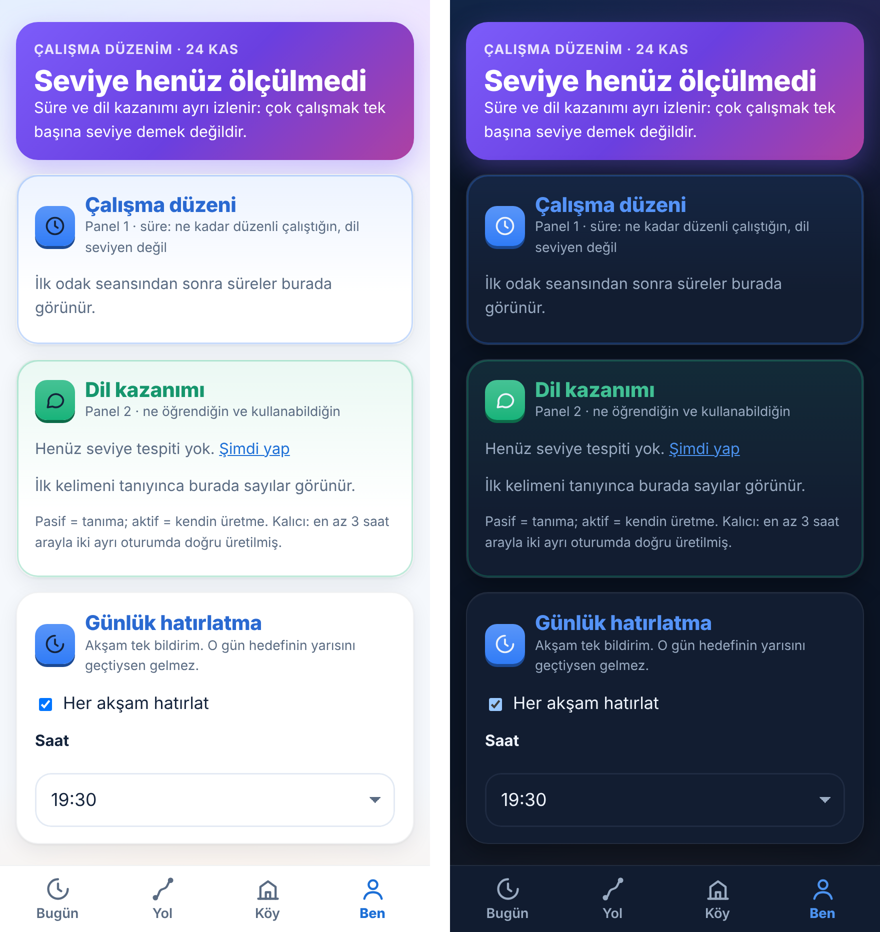
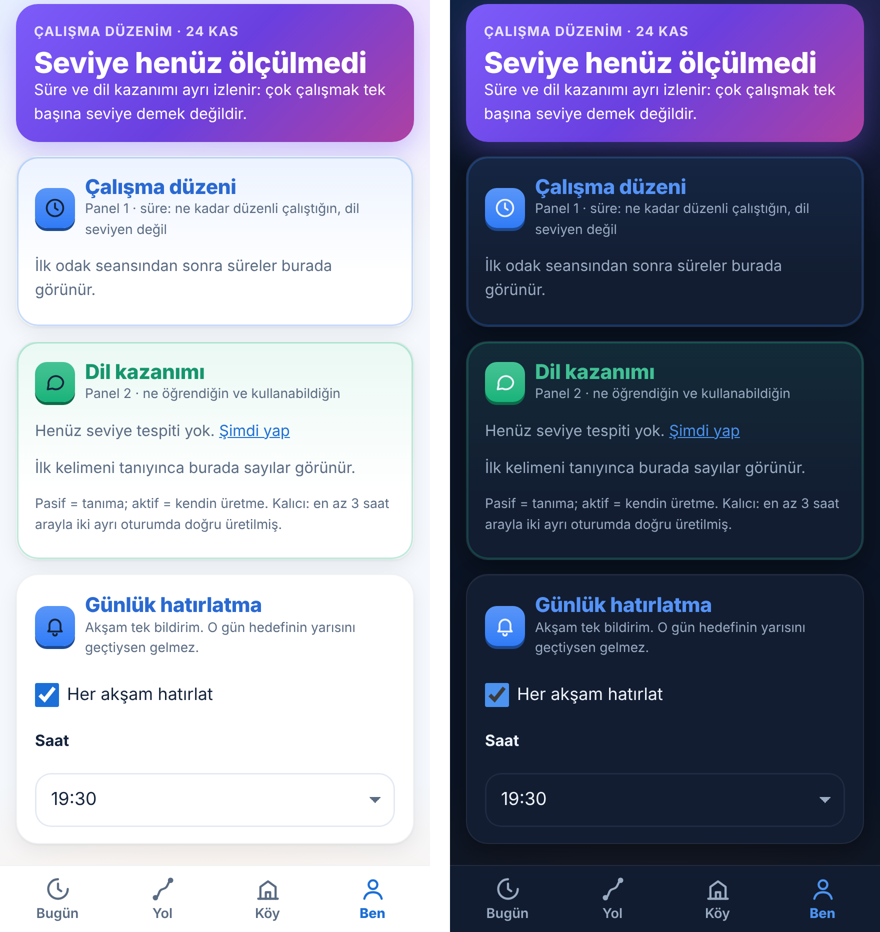
fix(#263, inceleme 7120058318): v1 ayarı taşınır, 44 pt satır, izin satırı
- P1-1: v2'de kayıt yoksa v1'in remind ayarı bir kez okunur ("off" → kapalı, listedeki saat → o saat)
- P1-2: "Her akşam hatırlat" satırı ≥ 44 pt, kutu 24 px; e2e ölçer
- P2-1: plan önce hesaplanır, silme ile kurma art arda
- P2-2: izin kapalıysa kartta tek satır; P2-4 metinler; P2-6 ölü koşul; P2-7 zil simgesi

Claude-Session: https://claude.ai/code/session_016gishHgJbA5Aumtxk7z73f

diff --git a/web/src/services/hatirlatma.ts b/web/src/services/hatirlatma.ts
@@ -20,7 +20,7 @@ const GUN = 7;
 export const HATIRLATMA_METIN: readonly (readonly [string, string])[] = [
   ["Bugünkü adımın hazır", "Birkaç dakika yeter: aç, kaldığın yerden devam et."],
   ["Guten Abend!", "Bugün kısa bir tur: dinle, sonra bir cümle söyle."],
-  ["10 dakika yeter", "En zor kısım başlamak. Bir halka aç, gerisi gelir."],
+  ["Kısa bir tur yeter", "En zor kısım başlamak. Bugünkü ilk adımı aç, gerisi gelir."],
   ["Bugün bir şey söyle", "Almanca konuştukça donma azalır. Bugün birkaç cümle kur."],
   ["Yarın kolaylaşsın", "Bugün kısa bir tekrar, yarın daha az unutmak demek."],
 ];
@@ -53,9 +53,30 @@ const eklenti = (): LN | undefined => (globalThis as any).Capacitor?.Plugins?.Lo
 /** kabukta bildirim eklentisi var mı (yoksa ayar satırı da gösterilmez) */
 export const hatirlatmaVar = () => !!eklenti();
 
+/** v1'in ayarı (aynı kökte `localStorage["dw-werkstatt-v2"].state.remind`: "off" ya da "HH:MM"); yoksa ya da okunamazsa null */
+export function v1Ayari(ham: string | null): HatirlatmaAyar | null {
+  try {
+    const r = ham ? JSON.parse(ham)?.state?.remind : undefined;
+    if (r === "off") return { ...HATIRLATMA_VARSAYILAN, acik: false };
+    if (typeof r === "string" && (HATIRLATMA_SAATLERI as readonly string[]).includes(r)) return { acik: true, saat: r };
+    return null;
+  } catch { return null; }
+}
+
+/** ayar; v2'de kayıt yoksa bir kez v1'inkinden (v1'de kapattıysa kapalı başlar, saat listedeyse o saat), sonra kaydedilir */
 export async function hatirlatmaAyar(): Promise<HatirlatmaAyar> {
   const a = await getMeta<Partial<HatirlatmaAyar>>("hatirlatma");
-  return { ...HATIRLATMA_VARSAYILAN, ...(a ?? {}) };
+  if (a) return { ...HATIRLATMA_VARSAYILAN, ...a };
+  let ham: string | null = null;
+  try { ham = globalThis.localStorage?.getItem("dw-werkstatt-v2") ?? null; } catch { /* erişim yok */ }
+  const y = v1Ayari(ham) ?? HATIRLATMA_VARSAYILAN;
+  await setMeta("hatirlatma", y);
+  return y;
+}
+
+/** bildirim izni (kart "izin kapalı" satırı için); kabuk yoksa null */
+export async function hatirlatmaIzni(): Promise<string | null> {
+  try { return (await eklenti()?.checkPermissions?.())?.display ?? null; } catch { return null; }
 }
 
 /** ayarı kaydeder ve bildirimleri hemen yeniden kurar */
@@ -70,26 +91,30 @@ export function hatirlatmaKur(gunlukHedefDk: number, simdi = new Date()): Promis
   // üst üste çağrılar (görünürlük + ayar) sırayla: iki kurulum birbirinin bildirimini silmesin
   const onceki = kuruluyor ?? Promise.resolve();
   const p = onceki.then(() => kur(gunlukHedefDk, simdi)).catch(() => undefined);
-  kuruluyor = p.finally(() => { if (kuruluyor === p) kuruluyor = null; });
+  const q: Promise<void> = p.finally(() => { if (kuruluyor === q) kuruluyor = null; });
+  kuruluyor = q;
   return p;
 }
 
 async function kur(gunlukHedefDk: number, simdi: Date) {
   const L = eklenti(); if (!L) return;
-  await L.cancel?.({ notifications: KIMLIKLER.map((id) => ({ id })) });
+  // önce plan hesaplanır, silme ile kurma art arda gelir: arka plana geçerken iOS uygulamayı arada askıya alırsa pencere boş kalmasın
   const ayar = await hatirlatmaAyar();
-  if (!ayar.acik) return;
-  let izin = (await L.checkPermissions?.())?.display;
-  if (izin !== "granted") {
-    // izin bir kez sorulur; reddedildiyse bir daha sorulmaz (iOS zaten ikinci kez göstermez)
-    if (izin === "denied" || (await getMeta<boolean>("hatirlatma_soruldu"))) return;
-    await setMeta("hatirlatma_soruldu", true);
-    izin = (await L.requestPermissions?.())?.display;
-    if (izin !== "granted") return;
+  let plan: Bildirim[] = [];
+  if (ayar.acik && (await izinVar(L))) {
+    const bugun = localDate(simdi.getTime());
+    const gun = (await focusRange(bugun, bugun))[0];
+    plan = hatirlatmaPlani(simdi, ayar, !!gun && gun.focusSec >= (gunlukHedefDk * 60) / 2);
   }
-  const bugun = localDate(simdi.getTime());
-  const gun = (await focusRange(bugun, bugun))[0];
-  const bugunYeter = !!gun && gun.focusSec >= (gunlukHedefDk * 60) / 2;
-  const plan = hatirlatmaPlani(simdi, ayar, bugunYeter);
+  await L.cancel?.({ notifications: KIMLIKLER.map((id) => ({ id })) });
   if (plan.length) await L.schedule({ notifications: plan });
+}
+
+async function izinVar(L: LN): Promise<boolean> {
+  const izin = (await L.checkPermissions?.())?.display;
+  if (izin === "granted") return true;
+  // izin bir kez sorulur; reddedildiyse bir daha sorulmaz (iOS zaten ikinci kez göstermez)
+  if (izin === "denied" || (await getMeta<boolean>("hatirlatma_soruldu"))) return false;
+  await setMeta("hatirlatma_soruldu", true);
+  return (await L.requestPermissions?.())?.display === "granted";
 }

diff --git a/web/src/services/hatirlatma.test.ts b/web/src/services/hatirlatma.test.ts
@@ -7,7 +7,7 @@ vi.mock("../data/db.ts", () => ({
   setMeta: async (k: string, v: unknown) => { meta.set(k, v); },
   focusRange: async (from: string) => (odakSn ? [{ date: from, focusSec: odakSn }] : []),
 }));
-import { hatirlatmaPlani, hatirlatmaKur, hatirlatmaKaydet, HATIRLATMA_VARSAYILAN, HATIRLATMA_METIN } from "./hatirlatma.ts";
+import { hatirlatmaPlani, hatirlatmaKur, hatirlatmaKaydet, hatirlatmaAyar, v1Ayari, HATIRLATMA_VARSAYILAN, HATIRLATMA_METIN } from "./hatirlatma.ts";
 
 const saat = (d: Date) => `${String(d.getHours()).padStart(2, "0")}:${String(d.getMinutes()).padStart(2, "0")}`;
 
@@ -37,6 +37,28 @@ describe("günlük hatırlatma planı (PM-121 md. 3.3)", () => {
   });
 });
 
+describe("v1'in ayarı bir kez taşınır (inceleme #263 P1-1)", () => {
+  const v1 = (remind?: string) => JSON.stringify({ words: [], state: remind === undefined ? {} : { remind } });
+  it("off → kapalı; listedeki saat → o saat; liste dışı ya da kayıt yok → 19:30", () => {
+    expect(v1Ayari(v1("off"))).toEqual({ acik: false, saat: "19:30" });
+    expect(v1Ayari(v1("21:00"))).toEqual({ acik: true, saat: "21:00" });
+    expect(v1Ayari(v1("07:00"))).toBeNull();
+    expect(v1Ayari(v1())).toBeNull();
+    expect(v1Ayari(null)).toBeNull();
+    expect(v1Ayari("{bozuk")).toBeNull();
+  });
+  it("v2'de kayıt yoksa v1'den okunur ve yazılır; sonra v1'e bakılmaz", async () => {
+    meta.clear();
+    const depo = new Map<string, string>([["dw-werkstatt-v2", v1("off")]]);
+    (globalThis as any).localStorage = { getItem: (k: string) => depo.get(k) ?? null };
+    expect(await hatirlatmaAyar()).toEqual({ acik: false, saat: "19:30" });
+    expect(meta.get("hatirlatma")).toEqual({ acik: false, saat: "19:30" });
+    depo.set("dw-werkstatt-v2", v1("21:00"));
+    expect((await hatirlatmaAyar()).acik).toBe(false);
+    delete (globalThis as any).localStorage;
+  });
+});
+
 describe("kurulum (kabuk köprüsü)", () => {
   let L: { cancel: ReturnType<typeof vi.fn>; checkPermissions: ReturnType<typeof vi.fn>; requestPermissions: ReturnType<typeof vi.fn>; schedule: ReturnType<typeof vi.fn> };
   beforeEach(() => {
@@ -59,6 +81,17 @@ describe("kurulum (kabuk köprüsü)", () => {
     odakSn = 30 * 60;
     await hatirlatmaKur(60, new Date(2026, 10, 24, 10, 0));
     expect(L.schedule.mock.calls[0]![0].notifications[0].schedule.at.getDate()).toBe(25);
+  });
+  it("izin yoksa da eski bildirimler silinir; silme ile kurma art arda (arada bekleme yok)", async () => {
+    const sira: string[] = [];
+    L.checkPermissions.mockImplementation(async () => { sira.push("izin"); return { display: "granted" }; });
+    L.cancel.mockImplementation(async () => { sira.push("sil"); });
+    L.schedule.mockImplementation(async () => { sira.push("kur"); });
+    await hatirlatmaKur(60, new Date(2026, 10, 24, 10, 0));
+    expect(sira).toEqual(["izin", "sil", "kur"]);
+    L.checkPermissions.mockResolvedValue({ display: "denied" }); L.cancel.mockClear(); L.schedule.mockClear();
+    await hatirlatmaKur(60);
+    expect(L.cancel).toHaveBeenCalledTimes(1); expect(L.schedule).not.toHaveBeenCalled();
   });
   it("kapatılınca yalnız silinir", async () => {
     await hatirlatmaKaydet({ acik: false, saat: "19:30" }, 60);

diff --git a/web/src/screens/Progress.tsx b/web/src/screens/Progress.tsx
@@ -11,7 +11,7 @@ import { TopBar, useFocusTick } from "../ui/components.tsx";
 import { XpSeri } from "../ui/solen.tsx";
 import { GecenHaftakiSen } from "../ui/gorev.tsx";
 import { useXp } from "../ui/durum.tsx";
-import { HATIRLATMA_SAATLERI, hatirlatmaAyar, hatirlatmaKaydet, hatirlatmaVar, type HatirlatmaAyar } from "../services/hatirlatma.ts";
+import { HATIRLATMA_SAATLERI, hatirlatmaAyar, hatirlatmaIzni, hatirlatmaKaydet, hatirlatmaVar, type HatirlatmaAyar } from "../services/hatirlatma.ts";
 
 const addDays = (d: Date, n: number) => { const x = new Date(d); x.setDate(x.getDate() + n); return x; };
 const DOW = ["Pzt", "Sal", "Çar", "Per", "Cum", "Cmt", "Paz"];
@@ -115,13 +115,15 @@ export function Progress() {
 /** Günlük hatırlatma (PM-121 md. 3.3): akşam tek bildirim; kapatılabilir, saati seçilir. Yalnız iPhone kabuğunda görünür. */
 function HatirlatmaKarti({ hedefDk }: { hedefDk: number }) {
   const [a, setA] = useState<HatirlatmaAyar | null>(null);
-  useEffect(() => { void hatirlatmaAyar().then(setA); }, []);
+  const [izin, setIzin] = useState<string | null>(null);
+  useEffect(() => { void hatirlatmaAyar().then(setA); void hatirlatmaIzni().then(setIzin); }, []);
   if (!a) return null;
-  const degis = (y: HatirlatmaAyar) => { setA(y); void hatirlatmaKaydet(y, hedefDk); };
+  const degis = (y: HatirlatmaAyar) => { setA(y); void hatirlatmaKaydet(y, hedefDk).then(() => hatirlatmaIzni()).then(setIzin); };
   return (
     <section class="card stack" data-test="hatirlatma">
-      <div class="sechead"><span class="ic" aria-hidden="true"><Icon name="saat" /></span><div><h2>Günlük hatırlatma</h2><div class="tiny muted">Akşam tek bildirim. O gün hedefinin yarısını geçtiysen gelmez.</div></div></div>
-      <label class="row"><input type="checkbox" checked={a.acik} data-test="hatirlatma-acik" onChange={(e) => degis({ ...a, acik: (e.target as HTMLInputElement).checked })} /><span>Her akşam hatırlat</span></label>
+      <div class="sechead"><span class="ic" aria-hidden="true"><Icon name="zil" /></span><div><h2>Günlük hatırlatma</h2><div class="tiny muted">Akşam tek bildirim. O gün hedefinin yarısını geçtiysen gelmez.</div></div></div>
+      <label class="row hatirlatma-satir"><input type="checkbox" checked={a.acik} data-test="hatirlatma-acik" onChange={(e) => degis({ ...a, acik: (e.target as HTMLInputElement).checked })} /><span>Her akşam hatırlat</span></label>
+      {a.acik && izin === "denied" && <p class="small muted" data-test="hatirlatma-izin">Bildirim izni kapalı. iPhone'da Ayarlar → Bildirimler'den bu uygulamaya izin ver.</p>}
       {a.acik && <><label class="lbl" for="hatirlatma-saat">Saat</label>
         <select id="hatirlatma-saat" class="input" value={a.saat} data-test="hatirlatma-saat" onChange={(e) => degis({ ...a, saat: (e.target as HTMLSelectElement).value })}>
           {HATIRLATMA_SAATLERI.map((s) => <option value={s}>{s}</option>)}

diff --git a/web/src/styles.css b/web/src/styles.css
@@ -833,3 +833,6 @@ section.card[data-duzen="kare"].stack > * + * { margin-top: 8px; }
 .akis-tablo-sec { flex-wrap: wrap; gap: 8px; }
 .akis-tablo-sec .chip { min-height: 44px; padding: 0 14px; border-radius: 999px; border: 1px solid var(--line); background: var(--card); color: var(--ink); font-weight: 700; }
 .akis-tablo-sec .chip.on { background: var(--accent); border-color: var(--accent); color: #fff; }
+/* Günlük hatırlatma (PM-121 md. 3.3; inceleme #263 P1-2): satırın tamamı dokunulur, en az 44 pt; kutu 24 px */
+.hatirlatma-satir { min-height: 44px; cursor: pointer; }
+.hatirlatma-satir input[type=checkbox] { width: 24px; height: 24px; margin: 0; accent-color: var(--accent); }

diff --git a/web/src/ui/icons.tsx b/web/src/ui/icons.tsx
@@ -31,6 +31,7 @@ const P: Record<string, string> = {
   harita: "M9 4l6 2 5-2v14l-5 2-6-2-5 2V6z|M9 4v14M15 6v14",
   ayar: "M15 12a3 3 0 1 1-6 0 3 3 0 0 1 6 0z|M12 3v3M12 18v3M3 12h3M18 12h3M5.6 5.6l2.1 2.1M16.3 16.3l2.1 2.1M5.6 18.4l2.1-2.1M16.3 7.7l2.1-2.1",
   saat: "M12 3a9 9 0 1 0 9 9|M12 7v5l3 2",
+  zil: "M6 16V11a6 6 0 0 1 12 0v5l1.5 2h-15z|M10 20.5a2 2 0 0 0 4 0",
   yol: "M5 20c4-1 2-7 7-8s4-6 7-8|M3.5 20a1.5 1.5 0 1 0 3 0 1.5 1.5 0 1 0-3 0|M17.5 4a1.5 1.5 0 1 0 3 0 1.5 1.5 0 1 0-3 0",
   koy: "M3 21h18|M5 21V10l7-5 7 5v11|M10 21v-6h4v6",
   ben: "M8 8a4 4 0 1 0 8 0 4 4 0 1 0-8 0|M4 21c1-4 4-6 8-6s7 2 8 6",

diff --git a/tests/e2e/v2_hatirlatma.py b/tests/e2e/v2_hatirlatma.py
@@ -3,7 +3,8 @@ Günlük hatırlatma (PM-121 md. 3.3; v1 kapanınca akşam hatırlatmasını v2 
   1. iPhone kabuğunda (LocalNotifications) açılıştan kısa süre sonra 7 günlük pencere kurulur: günde tek, 19:30 (varsayılan);
      önce v1'in kimlikleri (7101–7107, 7200) silinir, iki hatırlatma birden gelmez
   2. Ben → Çalışma düzenim'de "Günlük hatırlatma" kartı: kapatınca yalnız silinir (kurulum yok), açıp saat seçince o saatte kurulur;
-     ayar yeniden açılışta korunur
+     ayar yeniden açılışta korunur; satır en az 44 pt (inceleme #263 P1-2)
+  2b. v1'de "Kapalı" seçilmişse v2 kapalı başlar ve bildirim kurmaz; izin kapalıysa kartta tek satır (inceleme #263 P1-1, P2-2)
   3. uygulama arka plana geçince pencere yeniden kurulur
   4. tarayıcıda (kabuk yok) kart çizilmez, hata yok
   5. açık + koyu, 390 ve 430; taşma yok
@@ -18,6 +19,9 @@ SAHTE = """window.__ln = []; window.Capacitor = { Plugins: { LocalNotifications:
   cancel: async (o) => { window.__ln.push(['sil', o.notifications.map((n) => n.id)]); },
   checkPermissions: async () => ({ display: 'granted' }), requestPermissions: async () => ({ display: 'granted' }),
   schedule: async (o) => { window.__ln.push(['kur', o.notifications.map((n) => [n.id, new Date(n.schedule.at).getHours() + ':' + String(new Date(n.schedule.at).getMinutes()).padStart(2, '0')])]); } } } };"""
+
+RED = SAHTE.replace("checkPermissions: async () => ({ display: 'granted' })", "checkPermissions: async () => ({ display: 'denied' })")
+V1_KAPALI = "if (!localStorage.getItem('dw-werkstatt-v2')) localStorage.setItem('dw-werkstatt-v2', JSON.stringify({ words: [], state: { remind: 'off' } }));"
 
 def kayit(pg): return pg.evaluate("window.__ln || []")
 def bekle_kur(pg, n):
@@ -38,6 +42,16 @@ def main():
         check(pg.locator("[data-test=hatirlatma]").count() == 0, "tarayıcıda (kabuk yok) hatırlatma kartı çizilmez")
         b.close()
 
+        # 2b. v1'de kapalı → v2 kapalı başlar; izin reddedilmiş → açınca uyarı satırı, kurulum yok
+        b, ctx = launch(p); ctx.add_init_script(V1_KAPALI); ctx.add_init_script(RED); pg = new_page(ctx)
+        login_onboard(pg, PORT); pg.wait_for_selector("[data-tab=today]"); pg.wait_for_timeout(3000)
+        check(not any(x[0] == "kur" for x in kayit(pg)), f"v1'de kapalıysa açılışta bildirim kurulmaz ({kayit(pg)})")
+        duzen(pg, base); kart = pg.locator("[data-test=hatirlatma]"); kart.wait_for()
+        check(not kart.locator("[data-test=hatirlatma-acik]").is_checked() and kart.locator("[data-test=hatirlatma-saat]").count() == 0, "v1'de 'Kapalı' seçilmişse v2'de kart kapalı başlar")
+        kart.locator("[data-test=hatirlatma-acik]").click(); kart.locator("[data-test=hatirlatma-izin]").wait_for(timeout=5000)
+        check(not any(x[0] == "kur" for x in kayit(pg)), "izin kapalıyken açınca kurulmaz, kartta izin satırı görünür")
+        b.close()
+
         for sema in ("light", "dark"):
             for gen in (390, 430):
                 b, ctx = launch(p, color_scheme=sema, viewport={"width": gen, "height": 932 if gen == 430 else 844}); ctx.add_init_script(SAHTE); pg = new_page(ctx)
@@ -52,6 +66,9 @@ def main():
                 kart = pg.locator("[data-test=hatirlatma]"); kart.wait_for()
                 check(kart.locator("[data-test=hatirlatma-acik]").is_checked() and kart.locator("[data-test=hatirlatma-saat]").input_value() == "19:30", f"{sema} {gen}: kart açık, 19:30")
                 kart.scroll_into_view_if_needed()
+                if gen == 390:
+                    sh = pg.evaluate("(() => { const r = document.querySelector('.hatirlatma-satir').getBoundingClientRect(); const k = document.querySelector('[data-test=hatirlatma-acik]').getBoundingClientRect(); return [r.height, k.width]; })()")
+                    check(sh[0] >= 44 and sh[1] >= 22, f"{sema}: 'Her akşam hatırlat' satırı en az 44 pt, kutu ≥ 22 px ({sh})")
                 no_overflow(pg, f"{sema} {gen} Çalışma düzenim")
                 if gen == 430: pg.evaluate("window.scrollTo(0, document.body.scrollHeight)"); pg.wait_for_timeout(150); shot(pg, f"hatirlatma-{sema}", full=False)
                 if sema == "light" and gen == 430:
